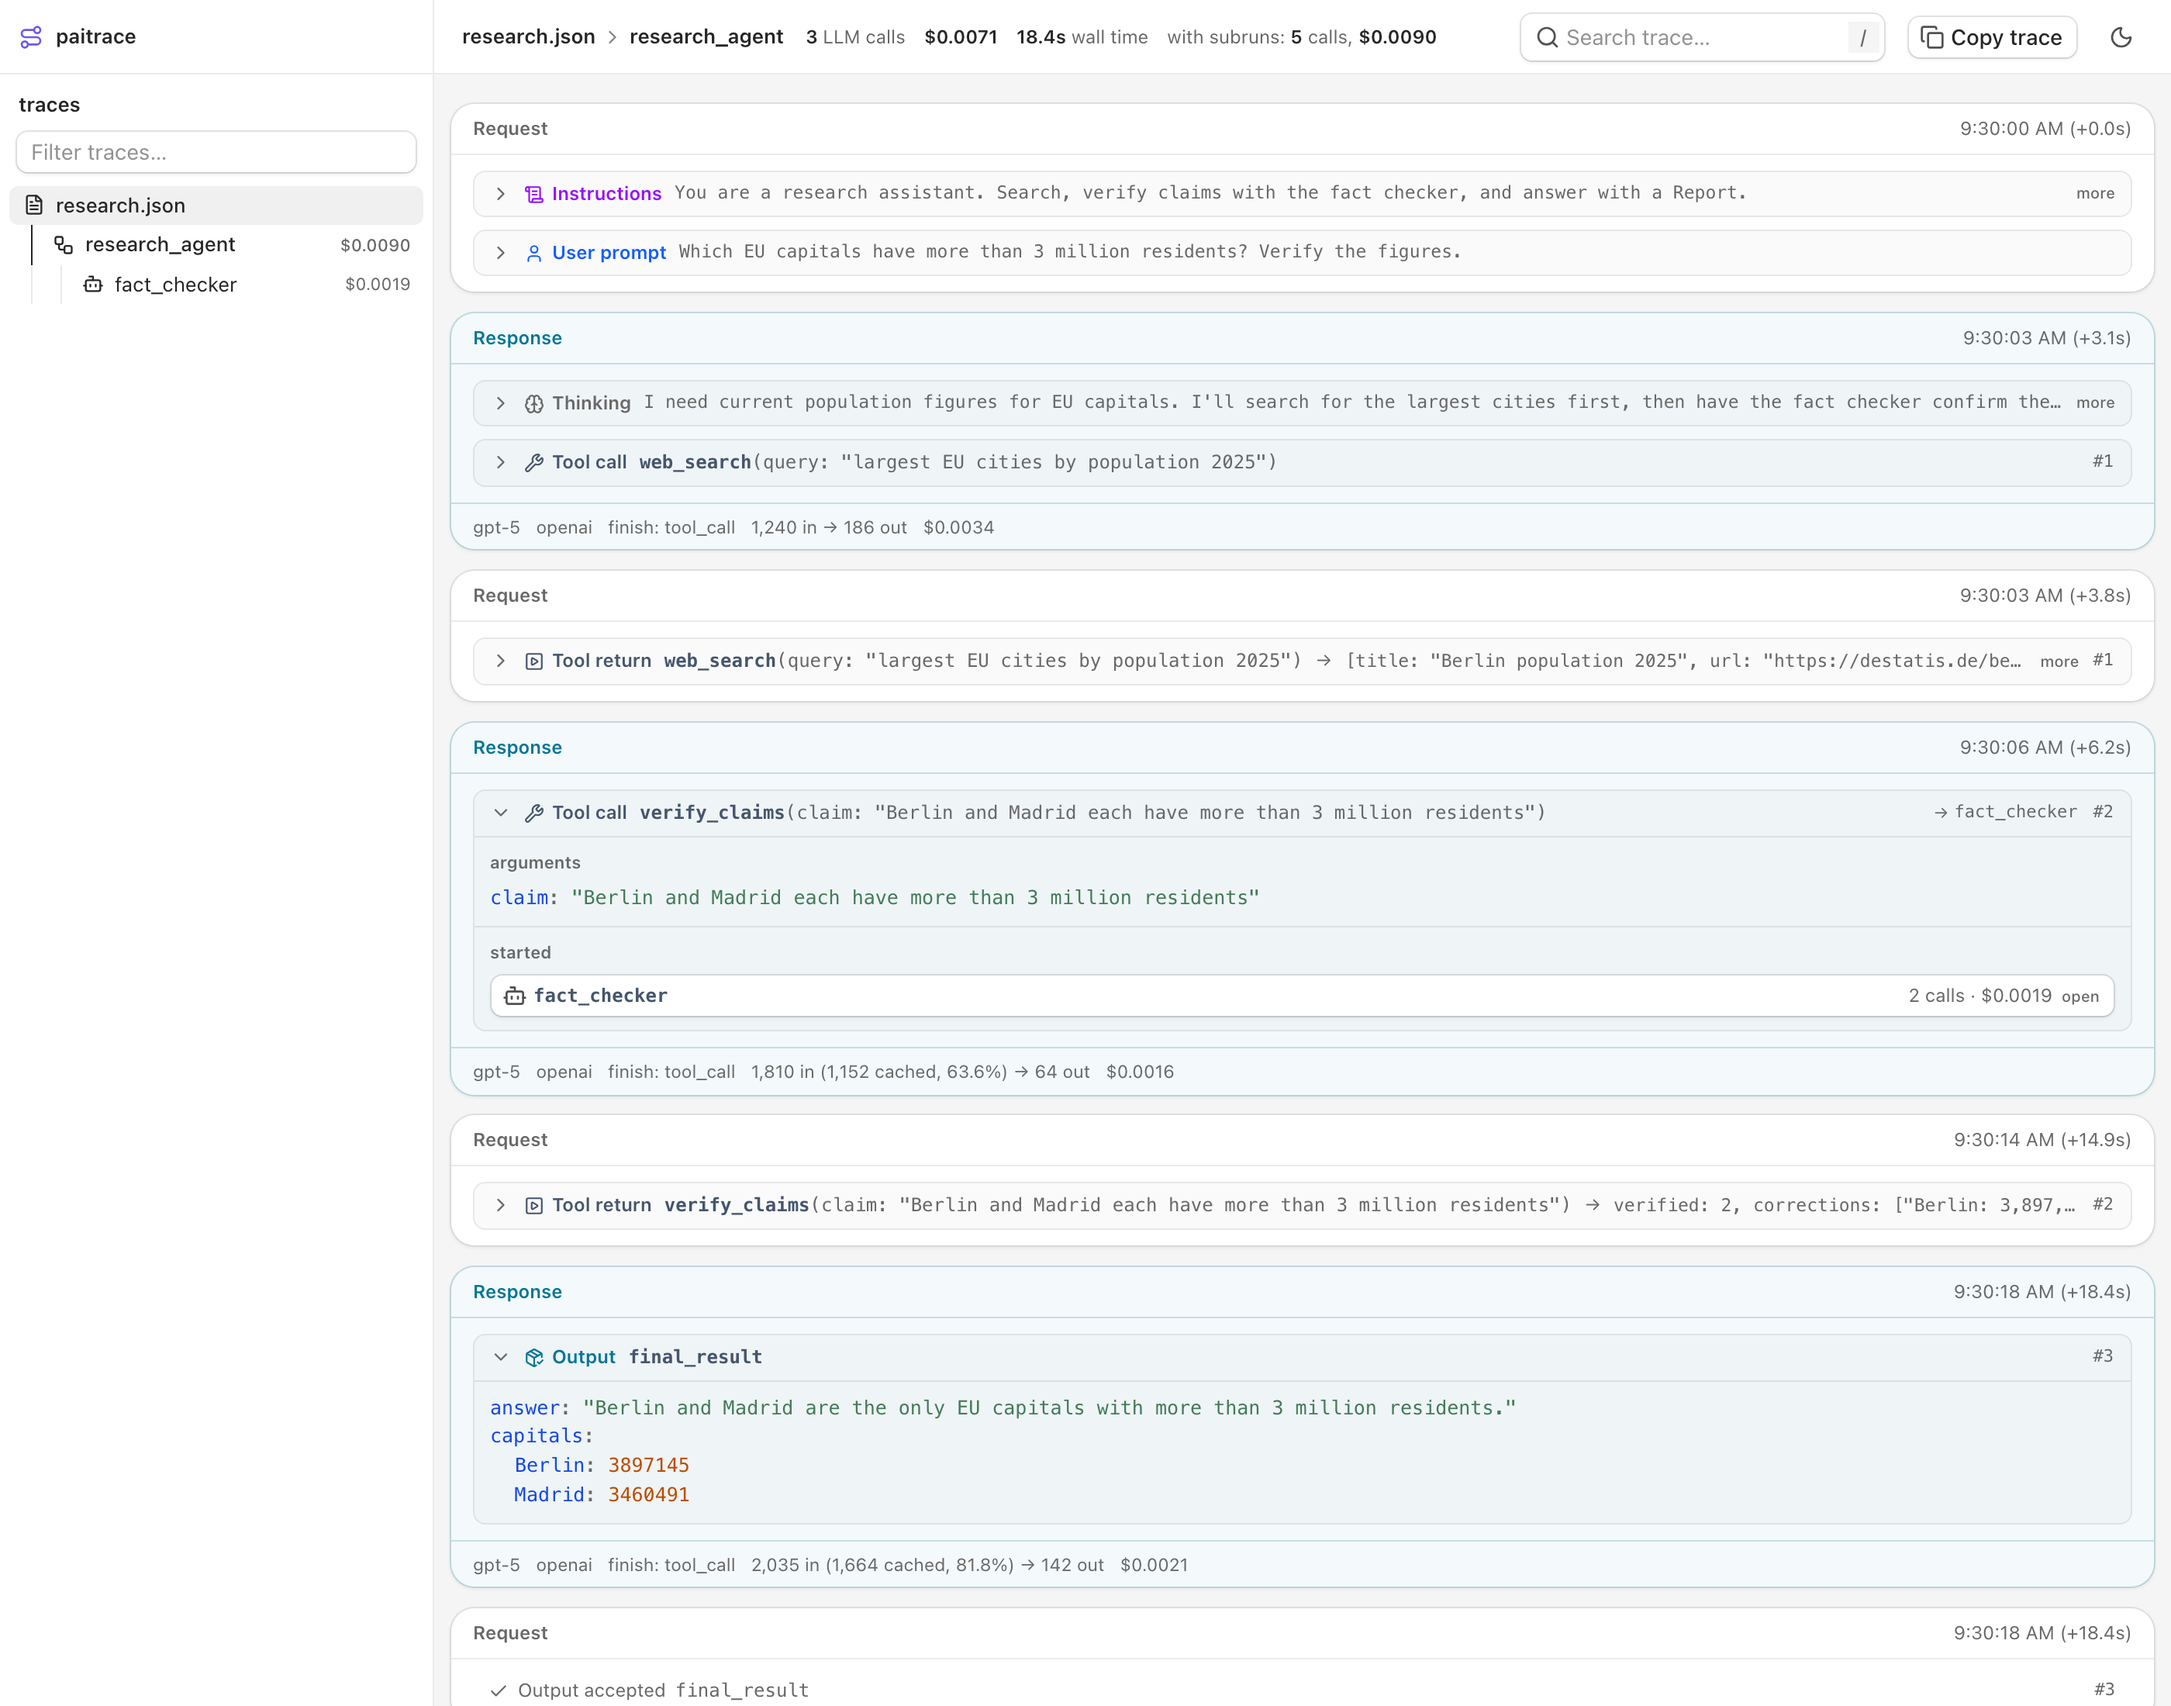
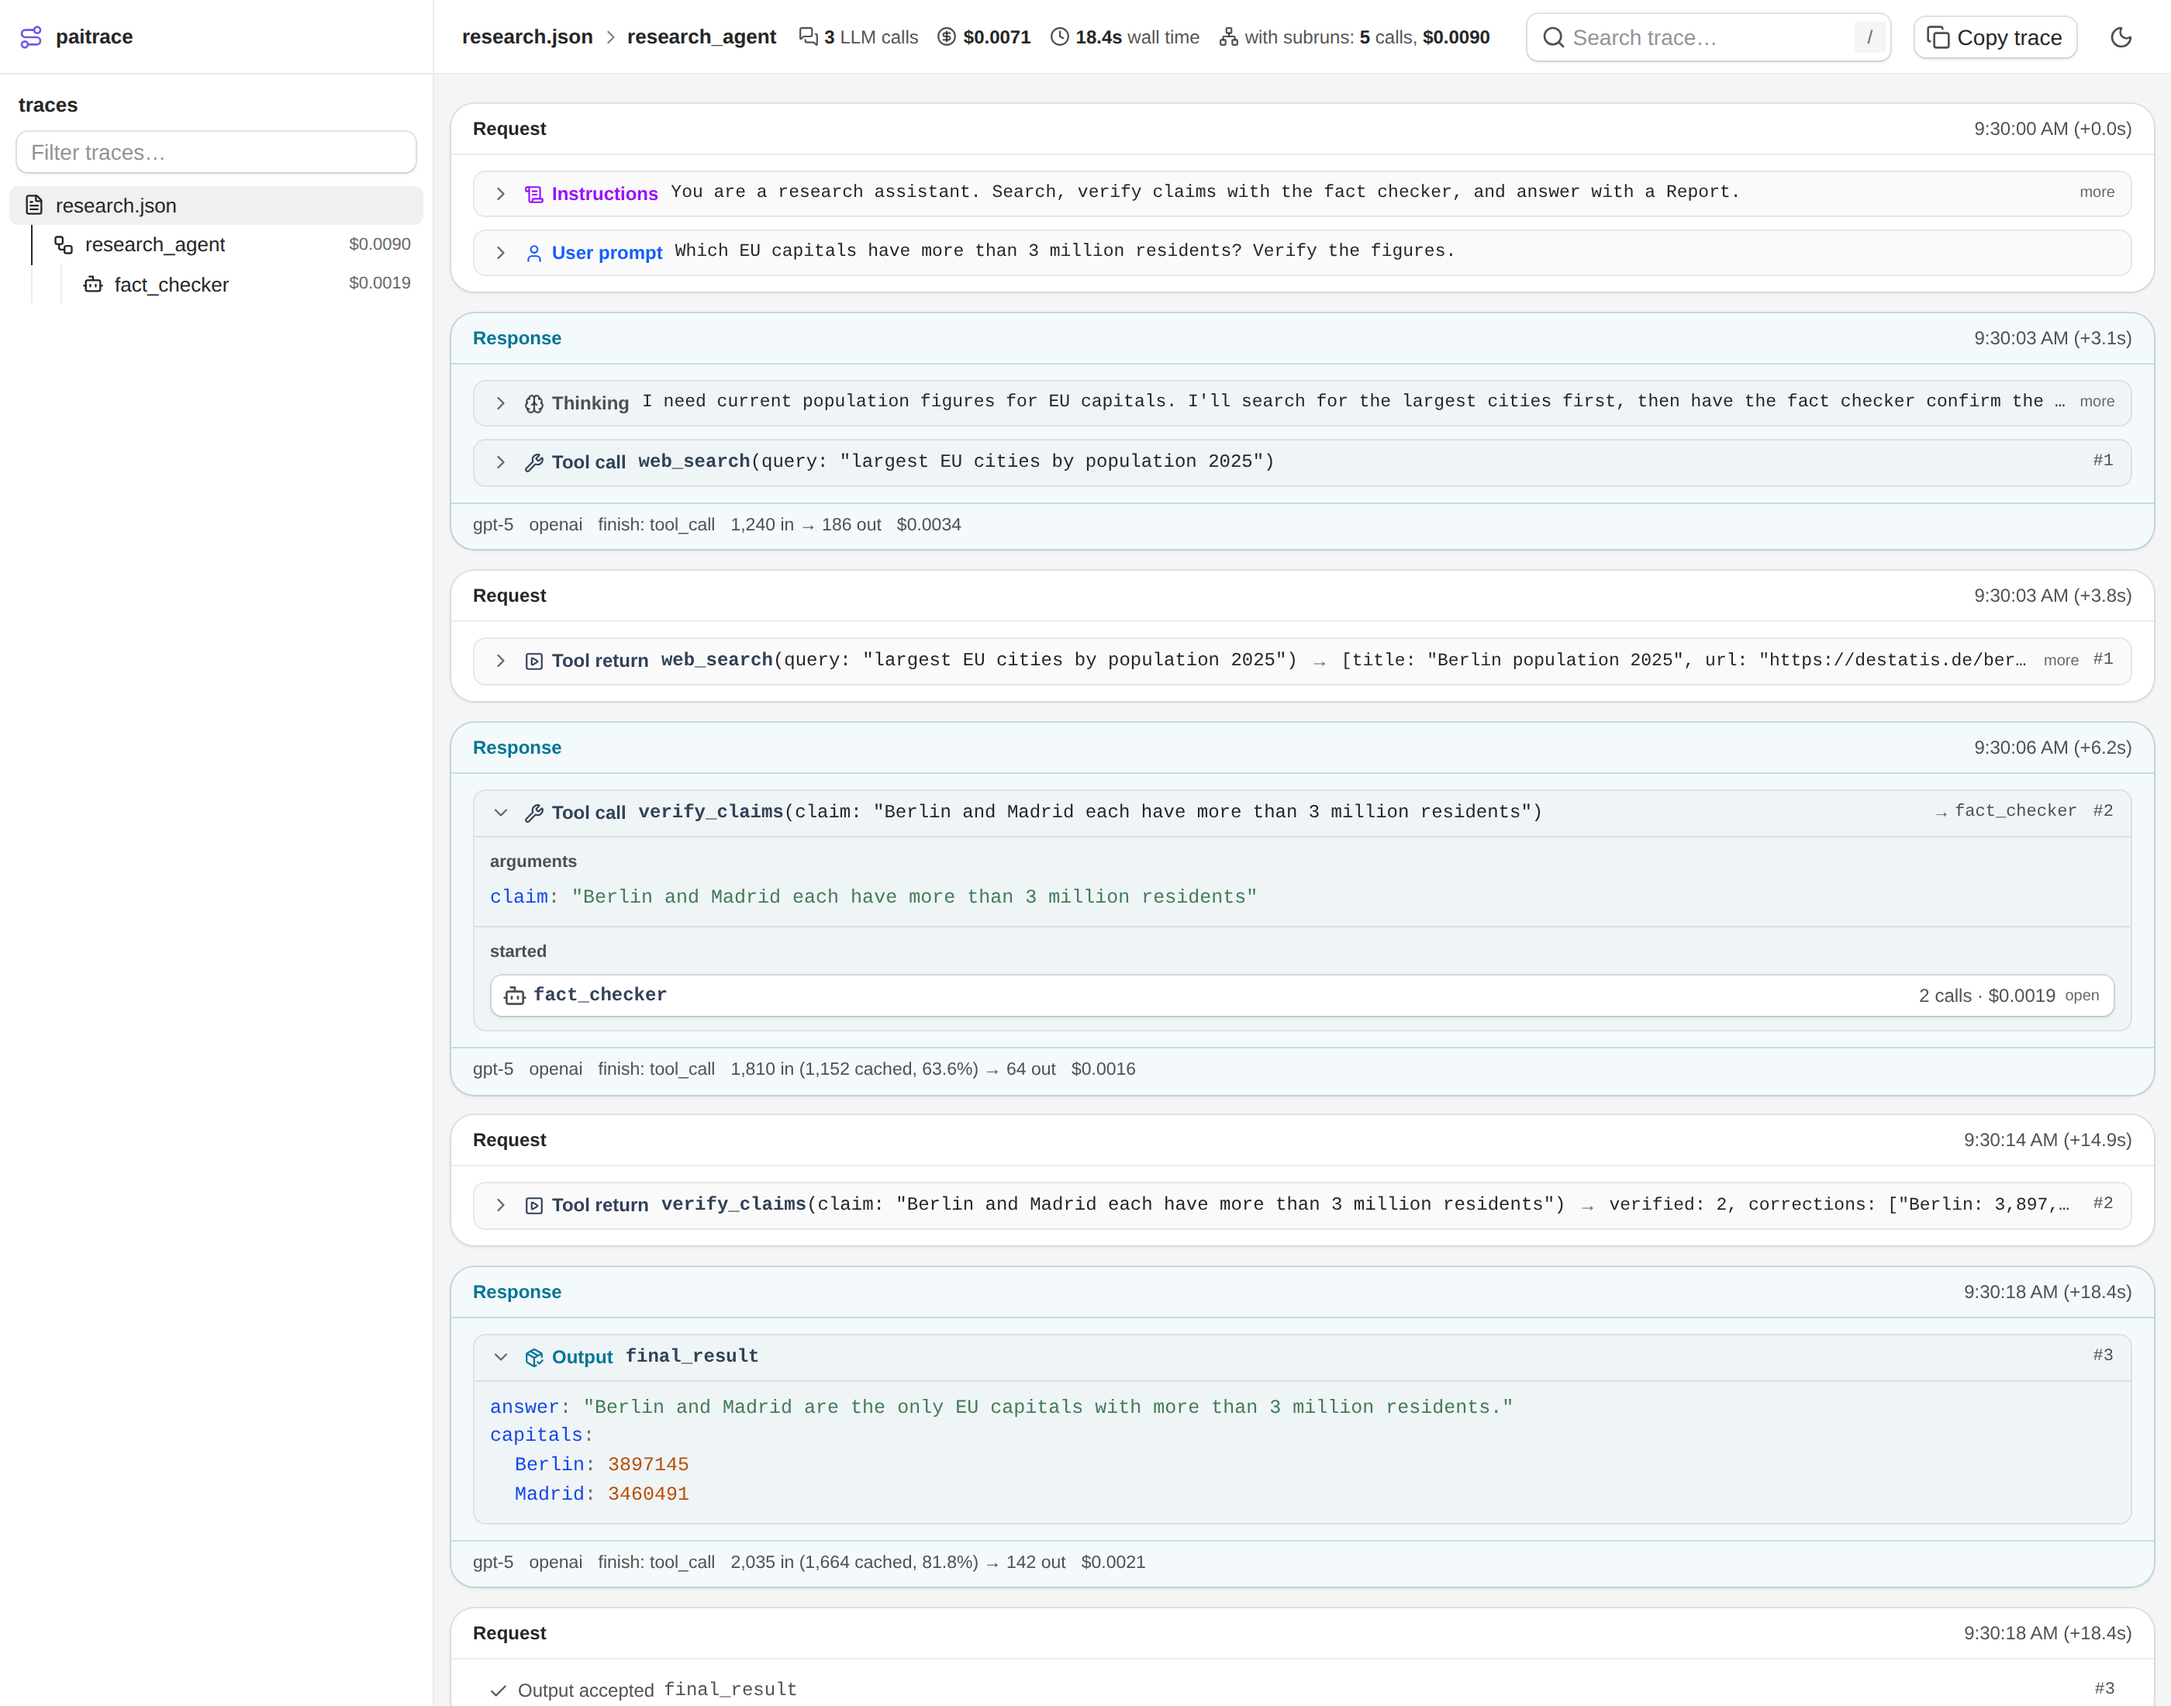
fix(viewer): raise main-view text contrast to match the sidebar (#46)
* fix(viewer): raise main-view text contrast to match the sidebar

Message content (part previews, tool args, Request header) now uses the
foreground color; metadata (timestamps, usage footer, section labels,
pair ends, thinking body, untoned labels) uses foreground at 80%.
Chrome (chevrons, 'more', arrows, JSON punctuation) stays muted. The
tool tone darkens one step in each theme.

* refactor(viewer): name the secondary text color subtle-foreground

Replace the repeated text-foreground/80 with a theme token defined for
light and dark, and use it for the top-bar stats too.

* docs: regenerate README screenshots with the higher-contrast viewer

diff --git a/frontend/src/styles/index.css b/frontend/src/styles/index.css
@@ -5,7 +5,9 @@
 @custom-variant dark (&:where([data-theme="dark"], [data-theme="dark"] *));
 
 /* coss neutral colors (@coss/colors-neutral), plus the viewer's own tokens:
-   who produced a block, search matches, and code syntax. */
+   secondary text, who produced a block, search matches, and code syntax.
+   Text contrast steps: foreground for content, subtle-foreground for metadata
+   (timestamps, usage, labels), muted-foreground for chrome (chevrons, hints). */
 :root {
   --accent: --alpha(var(--color-black) / 4%);
   --accent-foreground: var(--color-neutral-800);
@@ -21,6 +23,7 @@
   --input: --alpha(var(--color-black) / 10%);
   --muted: --alpha(var(--color-black) / 4%);
   --muted-foreground: color-mix(in srgb, var(--color-neutral-500) 90%, var(--color-black));
+  --subtle-foreground: --alpha(var(--foreground) / 80%);
   --popover: var(--color-white);
   --popover-foreground: var(--color-neutral-800);
   --primary: var(--color-neutral-800);
@@ -37,7 +40,7 @@
   --user: var(--color-blue-600);
   --system: var(--color-purple-600);
   --assistant: var(--color-cyan-700);
-  --tool: var(--color-slate-600);
+  --tool: var(--color-slate-700);
   --search-match: #f7d96b;
   --search-current: #f59e0b;
   --code-key: var(--color-blue-700);
@@ -61,6 +64,7 @@
   --input: --alpha(var(--color-white) / 8%);
   --muted: --alpha(var(--color-white) / 4%);
   --muted-foreground: color-mix(in srgb, var(--color-neutral-500) 90%, var(--color-white));
+  --subtle-foreground: --alpha(var(--foreground) / 80%);
   --popover: color-mix(in srgb, var(--background) 98%, var(--color-white));
   --popover-foreground: var(--color-neutral-100);
   --primary: var(--color-neutral-100);
@@ -77,7 +81,7 @@
   --user: var(--color-blue-400);
   --system: var(--color-purple-400);
   --assistant: var(--color-cyan-400);
-  --tool: var(--color-slate-400);
+  --tool: var(--color-slate-300);
   --search-match: #7c5d16;
   --search-current: #d97706;
   --code-key: var(--color-blue-300);
@@ -101,6 +105,7 @@
   --color-input: var(--input);
   --color-muted: var(--muted);
   --color-muted-foreground: var(--muted-foreground);
+  --color-subtle-foreground: var(--subtle-foreground);
   --color-popover: var(--popover);
   --color-popover-foreground: var(--popover-foreground);
   --color-primary: var(--primary);

diff --git a/frontend/src/components/parts/ToolCallGroup.tsx b/frontend/src/components/parts/ToolCallGroup.tsx
@@ -25,12 +25,12 @@ export const PAIR_ARROW_CLASS = "pair-arrow shrink-0 text-muted-foreground";
     search queries, discovered tools, revealed tool names. */
 export const CHIPS_CLASS = "flex flex-wrap gap-1.5";
 /** The call's number (a link to the other end of the pair) at the header's right edge. */
-const PAIR_END_CLASS = "ml-auto inline-flex shrink-0 gap-2 text-[11px] text-muted-foreground";
+const PAIR_END_CLASS = "ml-auto inline-flex shrink-0 gap-2 text-[11px] text-subtle-foreground";
 /** Header links: inline text sized like the header around them. */
 const PAIR_LINK_CLASS =
   "pair-link h-auto p-0 text-[11px] font-normal text-inherit sm:h-auto sm:text-[11px]";
 const SECTION_CLASS = "border-t px-2.5 py-2";
-const SECTION_LABEL_CLASS = "mb-1.5 text-[11px] font-semibold text-muted-foreground";
+const SECTION_LABEL_CLASS = "mb-1.5 text-[11px] font-semibold text-subtle-foreground";
 
 export function ToolChip({ children }: { children: ComponentChildren }) {
   return (
@@ -167,7 +167,7 @@ export function OutputCall({
 export function OutputAccepted({ part, call }: { part: AnyToolReturnPart; call: CallLink }) {
   return (
     <div
-      class="output-accepted flex items-center gap-1.5 px-2.5 py-0.5 text-xs text-muted-foreground"
+      class="output-accepted flex items-center gap-1.5 px-2.5 py-0.5 text-xs text-subtle-foreground"
       title={compactJson(part.content)}
     >
       <Check size={13} /> Output accepted{" "}
@@ -250,7 +250,7 @@ export function ToolSignature({ name, args }: { name: string; args: string | nul
   return (
     <span class="tool-signature inline-flex min-w-0 font-mono text-xs">
       <span class={`${TOOL_NAME_CLASS} shrink-0`}>{name}</span>
-      {args !== null ? <span class="min-w-0 truncate text-muted-foreground">({args})</span> : null}
+      {args !== null ? <span class="min-w-0 truncate text-foreground">({args})</span> : null}
     </span>
   );
 }

diff --git a/frontend/src/components/MessageCard.tsx b/frontend/src/components/MessageCard.tsx
@@ -74,7 +74,7 @@ export function MessageCard({
     >
       <CardHeader
         className={cn(
-          `card-kind kind-${message.kind} flex items-center gap-2 border-b px-3.5 py-2 text-xs font-semibold text-muted-foreground in-[[data-slot=card]:has(>[data-slot=card-panel])]:pb-2`,
+          `card-kind kind-${message.kind} flex items-center gap-2 border-b px-3.5 py-2 text-xs font-semibold text-foreground in-[[data-slot=card]:has(>[data-slot=card-panel])]:pb-2`,
           isResponse && "border-assistant/20 text-assistant",
         )}
       >
@@ -238,7 +238,7 @@ function ResponseFooter({
   costUsd: string | null;
 }) {
   return (
-    <CardFooter className="card-footer flex-wrap gap-2.5 border-t border-assistant/20 px-3.5 py-1.5 text-[11.5px] text-muted-foreground in-[[data-slot=card]:has(>[data-slot=card-panel])]:pt-1.5">
+    <CardFooter className="card-footer flex-wrap gap-2.5 border-t border-assistant/20 px-3.5 py-1.5 text-[11.5px] text-subtle-foreground in-[[data-slot=card]:has(>[data-slot=card-panel])]:pt-1.5">
       {response.model_name ? <span>{response.model_name}</span> : null}
       {response.provider_name ? <span>{response.provider_name}</span> : null}
       {response.finish_reason ? <span>finish: {response.finish_reason}</span> : null}
@@ -265,7 +265,7 @@ function Timestamp({ value, runStartMs }: { value: string | null; runStartMs: nu
   if (value === null) return null;
   const parsed = Date.parse(value);
   return (
-    <span class="ml-auto font-normal text-muted-foreground" title={value}>
+    <span class="ml-auto font-normal text-subtle-foreground" title={value}>
       {new Date(parsed).toLocaleTimeString()} (+{formatDuration((parsed - runStartMs) / 1000)})
     </span>
   );

diff --git a/frontend/src/components/Block.tsx b/frontend/src/components/Block.tsx
@@ -83,7 +83,7 @@ export function BlockSummary({
       <span
         class={cn(
           "block-label inline-flex items-center gap-1.25 font-semibold whitespace-nowrap",
-          tone ? TONE_TEXT[tone] : "text-muted-foreground",
+          tone ? TONE_TEXT[tone] : "text-subtle-foreground",
         )}
       >
         {label}
@@ -105,7 +105,7 @@ function BlockPreview({ text }: { text: string | undefined }) {
     <>
       <span
         // After a tool's `name(args) →`, long arguments must not squeeze the result to nothing.
-        class="block-preview min-w-0 flex-1 truncate font-mono text-[11.5px] text-muted-foreground [.pair-arrow+&]:min-w-[min(14ch,25%)]"
+        class="block-preview min-w-0 flex-1 truncate font-mono text-[11.5px] text-foreground [.pair-arrow+&]:min-w-[min(14ch,25%)]"
         title={isCutOff(text) ? EXPAND_HINT : text}
       >
         {text}

diff --git a/frontend/src/components/TraceView.tsx b/frontend/src/components/TraceView.tsx
@@ -87,7 +87,7 @@ export function TraceStatsBar({
   // breakdown goes before the run's calls, cost, and wall time. Stats that do not
   // fit wrap onto a second line, which the fixed height hides.
   return (
-    <div class="trace-stats flex h-4.5 min-w-0 flex-[1_1_0] flex-wrap gap-3 overflow-hidden text-xs/4.5 whitespace-nowrap text-muted-foreground [&_b]:font-semibold [&_b]:text-foreground [&_svg]:mr-1 [&_svg]:inline [&_svg]:align-[-2px]">
+    <div class="trace-stats flex h-4.5 min-w-0 flex-[1_1_0] flex-wrap gap-3 overflow-hidden text-xs/4.5 whitespace-nowrap text-subtle-foreground [&_b]:font-semibold [&_b]:text-foreground [&_svg]:mr-1 [&_svg]:inline [&_svg]:align-[-2px]">
       <span>
         <MessagesSquare size={13} aria-hidden="true" />
         <b>{formatCount(totals.llm_calls)}</b> LLM calls

diff --git a/frontend/src/components/parts/common.tsx b/frontend/src/components/parts/common.tsx
@@ -73,7 +73,7 @@ export function MediaChip({
     <Badge
       variant="outline"
       size="lg"
-      className="media-chip max-w-full font-normal text-muted-foreground"
+      className="media-chip max-w-full font-normal text-subtle-foreground"
       render={href ? <a href={href} target="_blank" rel="noreferrer noopener" /> : undefined}
     >
       {icon} <span class="truncate">{label}</span>
@@ -108,7 +108,7 @@ function MediaImage({
         loading="lazy"
         onError={() => setFailed(true)}
       />
-      {caption && <div class="text-xs text-muted-foreground">{caption}</div>}
+      {caption && <div class="text-xs text-subtle-foreground">{caption}</div>}
     </div>
   );
 }

diff --git a/frontend/src/components/parts/ThinkingPart.tsx b/frontend/src/components/parts/ThinkingPart.tsx
@@ -16,7 +16,7 @@ export function ThinkingPart({ part }: { part: ThinkingPartType }) {
       badges={part.provider_name ? <Badge variant="outline">{part.provider_name}</Badge> : null}
       preview={typeof part.content === "string" ? part.content : undefined}
     >
-      <div class="italic text-muted-foreground">
+      <div class="italic text-subtle-foreground">
         <ValueView value={part.content} />
       </div>
     </Block>

diff --git a/frontend/src/components/ChildRunCard.tsx b/frontend/src/components/ChildRunCard.tsx
@@ -24,7 +24,7 @@ export function ChildRunCard({
       <Bot />
       <span class="tool-name font-mono font-semibold text-tool">{entry.run.name}</span>
       <OutcomeBadge status={entry.run.outcome.status} />
-      <span class="ml-auto text-muted-foreground">
+      <span class="ml-auto text-subtle-foreground">
         {formatCount(totals.llm_calls)} calls
         {cost !== null ? ` · ${cost}` : ""}
       </span>

diff --git a/frontend/src/components/parts/CompactionPart.tsx b/frontend/src/components/parts/CompactionPart.tsx
@@ -21,7 +21,7 @@ export function CompactionPart({ part }: { part: CompactionPartType }) {
       {part.content ? (
         <ValueView value={part.content} markdown />
       ) : (
-        <div class="italic text-muted-foreground">
+        <div class="italic text-subtle-foreground">
           History was compacted by the provider; no readable summary.
         </div>
       )}
